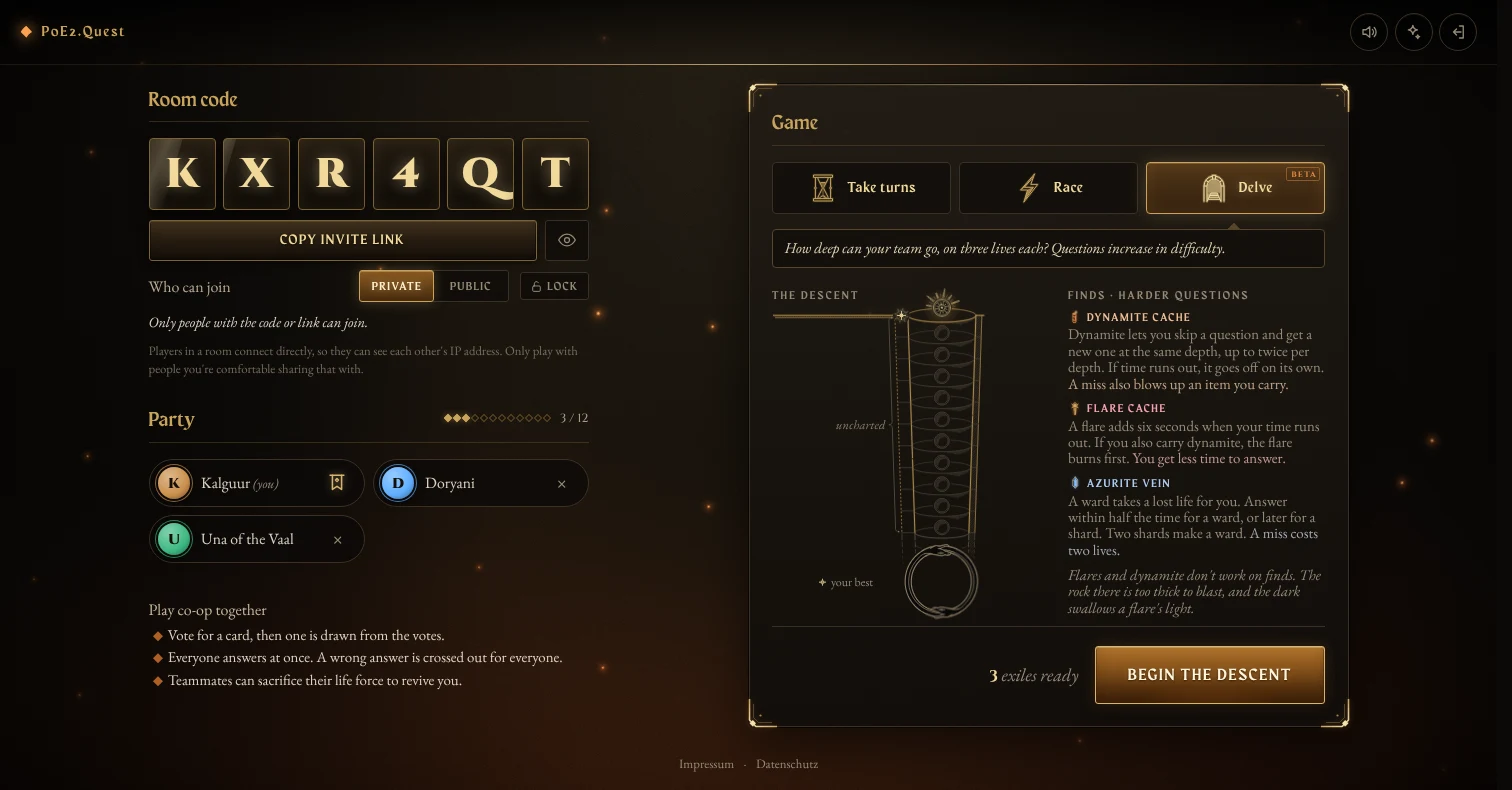
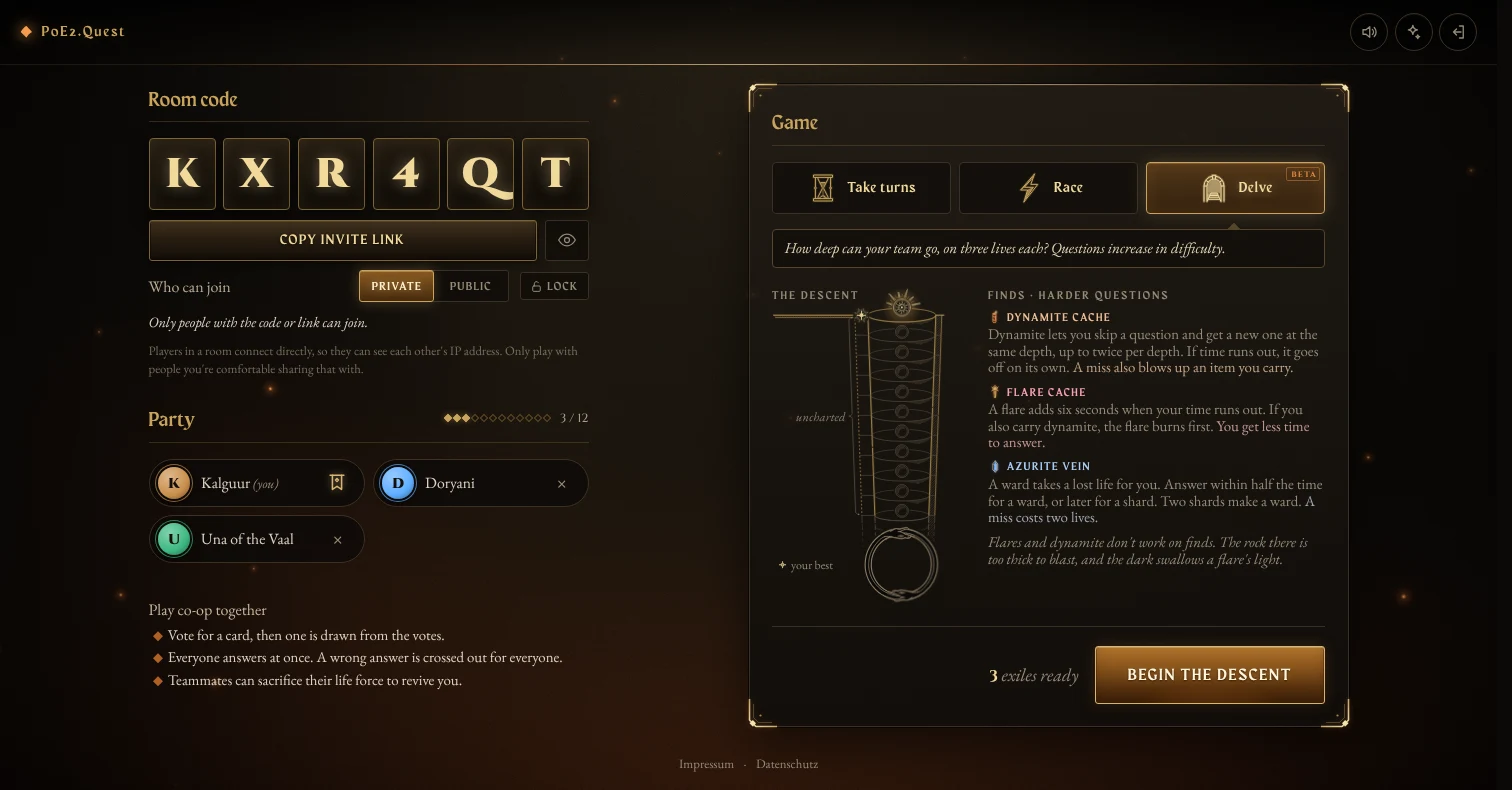
Handoff: footer without diamonds; the descent at its own width
The start page footer sits under a plain hairline with its groups set
apart by space (screens refreshed, with the beta kicker and streak). In
the lobby, Delve's descent keeps its own width, so the gap to the finds
is only what its lines need, with room under its last ring.

Claude-Session: https://claude.ai/code/session_0174pAqwWHYR6Vwn9RMJ8ahN

Changed region(s): [[0.5284, 0.3646, 0.8704, 0.7899], [0.0933, 0.1519, 0.1243, 0.243]]

diff --git a/docs/handoff/lobby-round-6/README.md b/docs/handoff/lobby-round-6/README.md
@@ -35,7 +35,7 @@ Design canvas (owner only), page "Round 6": https://claude.ai/artifact/3F9B7GxKy
 | `air13-guest` | 1440 x 725 | a guest: values instead of controls |
 | `air13-alone` | 1440 x 725 | host alone |
 | `air13-hotseat` | 1440 x 725 | hot-seat: "Add exiles" above the party |
-| `air13-delve`, `pro14-delve`, `mbp16-delve` | 13, 14, 16 inch | Delve: the descent fills the panel |
+| `air13-delve`, `pro14-delve`, `mbp16-delve` | 13, 14, 16 inch | Delve: the descent runs the panel's height |
 | `desk-alone` | 1440 x 900 | host alone |
 | `mbp16-host-tall` | 1728 x 925 | a tall window: mode cards with the name under the emblem |
 | `tablet-host` | 820 x 1180 | tablet |
@@ -139,14 +139,13 @@ the same ring-into-pill treatment so the kick reads the same everywhere.
   warning; guests "Waiting for the host to start…"). **Begin is gold
   whenever it can start**, also for a host alone: playing alone is a normal
   game, so it must never look disabled.
-- **Delve: the descent fills the panel.** The descent is Delve's progress
-  bar and is never cut. On desktop the Delve block takes all the height the
-  panel has spare (`.delve-slot`, flex 1); the descent's column then widens
-  in 8 px steps, from 196 px up to 58% of the block, until the finds text
-  beside it, wrapping narrower, is as tall as the room left (an `$effect`
-  with a `ResizeObserver`, measuring the content with
-  `getBoundingClientRect`, not the stretched height). No wasted strip above
-  Begin. On short windows it stays at its narrowest.
+- **Delve: the descent takes the panel's spare height, at its own width.**
+  The descent is Delve's progress bar and is never cut. On desktop the
+  Delve block takes all the height the panel has spare (`.delve-slot`,
+  flex 1, with 1.1rem under it so its last ring doesn't sit on the rule
+  over Begin), and the descent's drawing runs that full height. Its column
+  keeps DelveRules' own width: the space between the descent and the finds
+  is only what its leader lines need, never stretched to fill.
 
 ## Large windows
 
@@ -158,7 +157,7 @@ and 2.07 at 3840 x 2030. Beta's `lib/stage.ts` still uses
 apply it to the lobby as well as the start page, so going from the start
 page into the lobby never changes the scale. Under zoom, `100dvh` must be
 divided by the zoom, and anything that measures itself
-(`getBoundingClientRect`, for example DelveLadder and the Delve fit above)
+(`getBoundingClientRect`, for example DelveLadder)
 must divide by `element.currentCSSZoom`.
 
 ## Done when

diff --git a/docs/handoff/start-page-and-lobby/README.md b/docs/handoff/start-page-and-lobby/README.md
@@ -163,18 +163,20 @@ Desktop shots are 1440 wide at 1x.
 
 ### Footer band
 
-Balanced on both sides: who made it on the left, how to support it on the
-right, every legal line together in the middle.
+One line on the page's axis, under a plain hairline (brightest in the
+middle, fading out at both ends; no diamond on it):
 
-- A rule with a centre diamond.
-- Left: "MADE BY zoe_arcana".
-- Right: pill "♥ SUPPORT THE PROJECT"; its note "Optional tips help pay for
-  the domain and development. Everything stays free." as a tooltip.
-- Middle, centred: fine print "Unofficial fan project. Path of Exile is a
-  trademark of Grinding Gear Games, who do not endorse this site. Item data
-  and art from poe2db.tw.", and under it "Impressum · Datenschutz /
-  Privacy" (existing links).
-- Grid `1fr auto 1fr`, so the middle stays centred under the diamond.
+- "MADE BY zoe_arcana", the pill "♥ SUPPORT THE PROJECT" (its note
+  "Optional tips help pay for the domain and development. Everything stays
+  free." as a tooltip), the fine print "Unofficial fan project. Path of
+  Exile is a trademark of Grinding Gear Games, who do not endorse this
+  site. Data and art: poe2db.tw", and "Impressum · Datenschutz" (no
+  underline, the muted footer colour, as on the other pages).
+- No diamonds between the groups: they are set apart by space alone, about
+  28 px between groups against 12 px inside one. The diamond is kept for
+  what it means elsewhere (the menu's cursor, a chosen thing), so it is not
+  used as punctuation.
+- 13 px type, the pill 26 px tall. Shots: every `W-*` and `sizes/*`.
 
 ### Invite link screen (`?room=CODE`)
 
